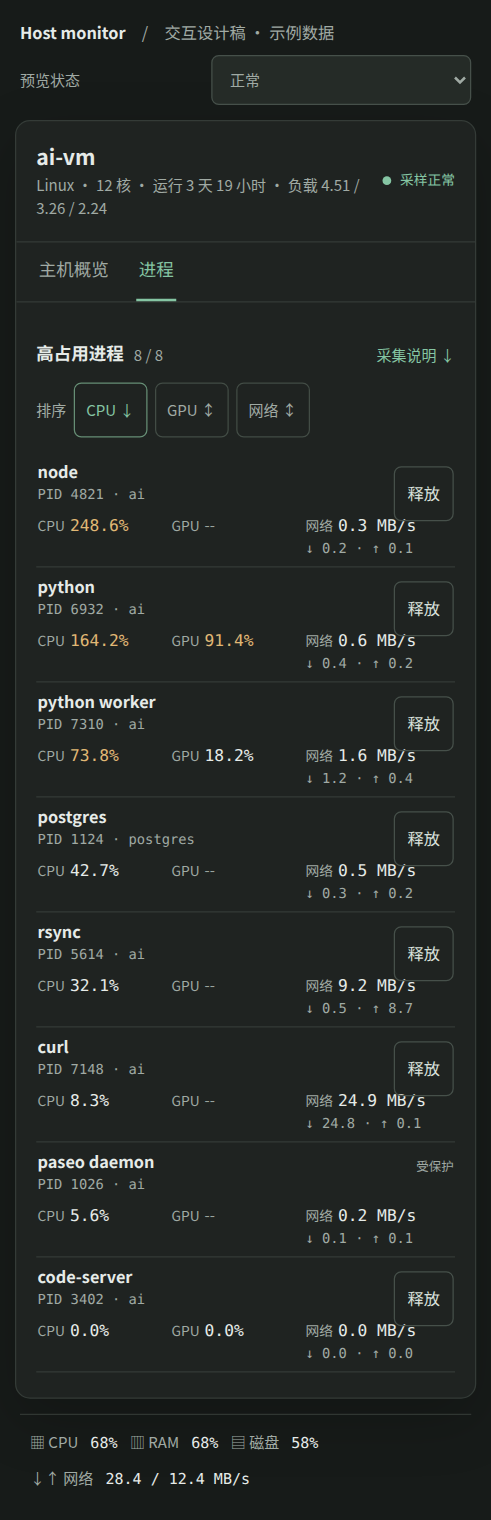
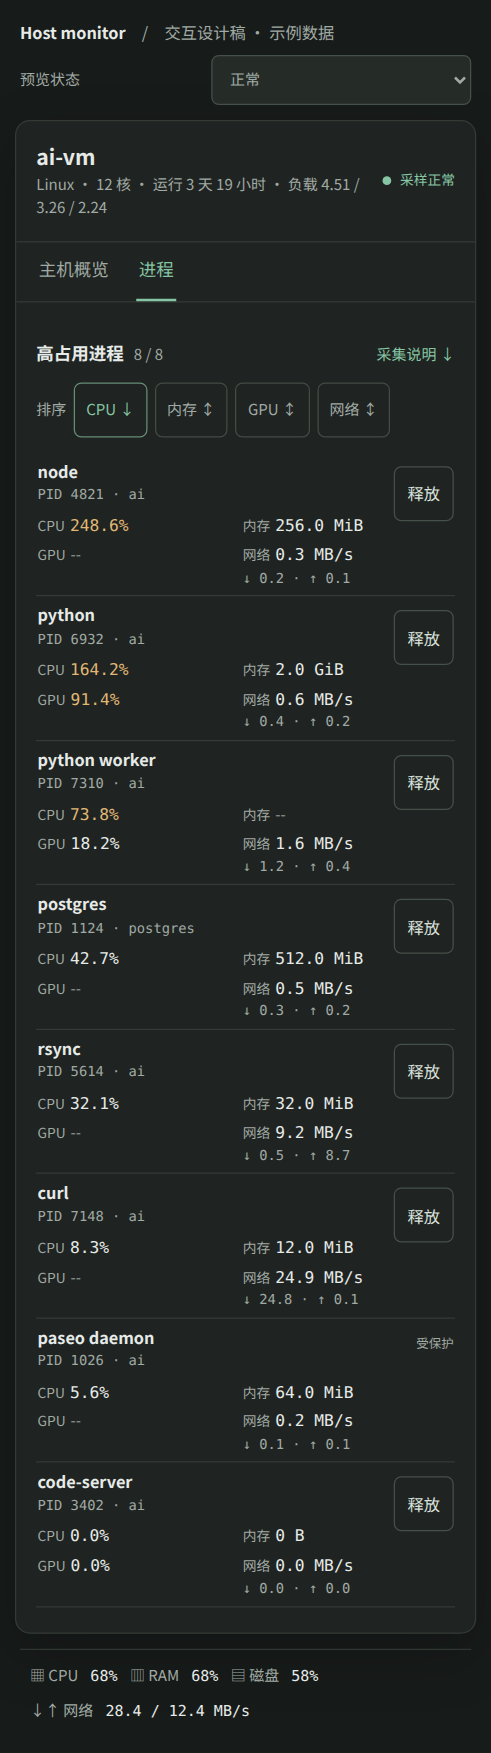
feat: 显示进程内存并精简资源表格

diff --git a/designs/host-monitor/index.html b/designs/host-monitor/index.html
@@ -240,19 +240,22 @@ select{
   text-align:left
 }
 .table th:first-child{
-  width:32%
+  width:27%
 }
 .table th:nth-child(2){
-  width:14%
+  width:10%
 }
 .table th:nth-child(3){
   width:13%
 }
 .table th:nth-child(4){
-  width:24%
+  width:12%
+}
+.table th:nth-child(5){
+  width:23%
 }
 .table th:last-child{
-  width:17%
+  width:15%
 }
 .sort{
   border:0;
@@ -517,6 +520,7 @@ dialog::backdrop{
   }
   .mobile-sort{
     display:flex;
+    flex-wrap:wrap;
     gap:6px;
     align-items:center;
     margin:0 0 12px;
@@ -558,7 +562,7 @@ dialog::backdrop{
   }
   .table td.resource{
     display:inline-block;
-    width:32%;
+    width:49%;
     vertical-align:top;
     font-size:13px
   }
@@ -599,7 +603,7 @@ dialog::backdrop{
 }
 </style></head><body>
 <div class="preview"><div class="preview-label"><strong>Host monitor</strong>　/　交互设计稿 · 示例数据</div><label class="preview-control">预览状态 <select id="scenario"><option value="normal">正常</option><option value="gpu">GPU 未检测到 / 不支持采集</option><option value="network">网络采集权限不足</option><option value="loading">加载中</option><option value="error">采集失败</option><option value="empty">空列表</option><option value="permission">释放权限不足</option><option value="exited">进程已退出</option><option value="failed">结束失败</option></select></label></div>
-<main class="shell"><header class="host-head"><div class="host-title"><div class="host-icon" aria-hidden="true">▦</div><div><h1>ai-vm</h1><div class="sub">Linux · 12 核 · 运行 3 天 19 小时 · 负载 4.51 / 3.26 / 2.24</div></div></div><div class="status"><span class="dot"></span>采样正常</div></header><div class="tabs" role="tablist" aria-label="主机监控视图"><button role="tab" aria-selected="true" data-tab="overview">主机概览</button><button role="tab" aria-selected="false" data-tab="process">进程</button></div><div class="columns"><section class="overview" id="overview"><h2 class="section-title">主机概览</h2><p class="section-caption">最近 60 秒</p><div id="metrics"></div><div class="disk"><div class="metric-head"><span>▤　磁盘 · 186.4 GB / 320 GB</span><strong class="mono">58%</strong></div><div class="disk-row"><div class="disk-label"><span>/</span><span class="mono">116.4 / 200 GB · 58%</span></div><div class="meter"><i style="width:58%"></i></div></div><div class="disk-row"><div class="disk-label"><span>/data</span><span class="mono">70 / 120 GB · 58%</span></div><div class="meter"><i style="width:58%"></i></div></div></div></section><section class="process mobile-hidden" id="process"><div class="process-heading"><div><h2 class="section-title">高占用进程</h2><span class="count" id="count"></span></div><button class="details-toggle" id="details-toggle" aria-expanded="false" aria-controls="collection-details">采集说明 ↓</button></div><div class="details" id="collection-details" hidden><p>-- 表示数据不可用。CPU 100% 表示占用 1 个核心；网络为可归属的可见 TCP 持续连接上下行总速率，不含 UDP 和短连接。</p><div id="availability" class="availability" aria-live="polite"></div><p id="protection-details"></p></div><div class="mobile-sort" id="mobile-sort"><span>排序</span></div><div id="content"></div><div id="toast" aria-live="polite"></div></section></div></main>
+<main class="shell"><header class="host-head"><div class="host-title"><div class="host-icon" aria-hidden="true">▦</div><div><h1>ai-vm</h1><div class="sub">Linux · 12 核 · 运行 3 天 19 小时 · 负载 4.51 / 3.26 / 2.24</div></div></div><div class="status"><span class="dot"></span>采样正常</div></header><div class="tabs" role="tablist" aria-label="主机监控视图"><button role="tab" aria-selected="true" data-tab="overview">主机概览</button><button role="tab" aria-selected="false" data-tab="process">进程</button></div><div class="columns"><section class="overview" id="overview"><h2 class="section-title">主机概览</h2><p class="section-caption">最近 60 秒</p><div id="metrics"></div><div class="disk"><div class="metric-head"><span>▤　磁盘 · 186.4 GB / 320 GB</span><strong class="mono">58%</strong></div><div class="disk-row"><div class="disk-label"><span>/</span><span class="mono">116.4 / 200 GB · 58%</span></div><div class="meter"><i style="width:58%"></i></div></div><div class="disk-row"><div class="disk-label"><span>/data</span><span class="mono">70 / 120 GB · 58%</span></div><div class="meter"><i style="width:58%"></i></div></div></div></section><section class="process mobile-hidden" id="process"><div class="process-heading"><div><h2 class="section-title">高占用进程</h2><span class="count" id="count"></span></div><button class="details-toggle" id="details-toggle" aria-expanded="false" aria-controls="collection-details">采集说明 ↓</button></div><div class="details" id="collection-details" hidden><p>-- 表示数据不可用。CPU 100% 表示占用 1 个核心；内存为 RSS，可能包含共享页，各进程相加不等于主机已用内存；网络为可归属的可见 TCP 持续连接上下行总速率，不含 UDP 和短连接。</p><div id="availability" class="availability" aria-live="polite"></div><p id="protection-details"></p></div><div class="mobile-sort" id="mobile-sort"><span>排序</span></div><div id="content"></div><div id="toast" aria-live="polite"></div></section></div></main>
 <div class="anchor" aria-label="主机状态摘要"><span>▦ CPU <b class="mono">68%</b><i class="tiny-meter"></i></span><span>▥ RAM <b class="mono">68%</b><i class="tiny-meter"></i></span><span>▤ 磁盘 <b class="mono">58%</b><i class="tiny-meter"></i></span><span>↓↑ 网络 <b class="mono">28.4 / 12.4 MB/s</b></span></div>
 <dialog id="confirm" aria-labelledby="dialog-title"><div class="dialog-body"><h2 id="dialog-title">结束进程并释放资源？</h2><p class="warning">将中断该进程正在执行的任务，未保存的数据可能丢失。</p><div class="detail" id="details"></div><p class="dialog-error" id="dialog-error" role="alert" hidden></p></div><div class="dialog-actions"><button class="cancel" id="cancel" autofocus>取消</button><button class="danger" id="submit">结束进程</button></div></dialog>
 <script>
@@ -612,7 +616,8 @@ const initial=[
 {name:'paseo daemon',pid:1026,user:'ai',cmd:'paseo daemon start',cpu:5.6,gpu:null,down:.1,up:.1,protected:true},
 {name:'code-server',pid:3402,user:'ai',cmd:'code-server --bind-addr 127.0.0.1:8080 /workspace',cpu:0,gpu:0,down:0,up:0},
 {name:'python worker',pid:7310,user:'ai',cmd:'python worker.py --queue inference',cpu:73.8,gpu:18.2,down:1.2,up:.4}];
-let processes=initial.map(p=>({...p})),sortKey='cpu',direction='desc',selected=null,opener=null,pending=false;
+let processes=initial.map((p,i)=>({...p,memory:[268435456,2147483648,12582912,33554432,536870912,67108864,0,null][i]})),sortKey='cpu',direction='desc',selected=null,opener=null,pending=false;
+const sampleMemory=processes.map(p=>p.memory);
 const $=id=>document.getElementById(id),scenario=$('scenario');
 function value(p,key){
   if(key==='gpu'&&scenario.value==='gpu'||key==='network'&&scenario.value==='network')return null;
@@ -645,16 +650,22 @@ function esc(s){
   return String(s).replace(/[&<>"']/g,c=>({'&':'&amp;','<':'&lt;','>':'&gt;','"':'&quot;',"'":'&#39;'}[c]))}
 
 function sortButton(key,label){
-  const unavailable=(key==='gpu'&&scenario.value==='gpu')||(key==='network'&&scenario.value==='network');
+  const unavailable=(key==='memory'&&!processes.some(p=>p.memory!=null))||(key==='gpu'&&scenario.value==='gpu')||(key==='network'&&scenario.value==='network');
   return `<button class="sort ${sortKey===key?'active':''}" data-sort="${key}" ${unavailable?'disabled title="该资源未采集"':''}>${label} ${sortKey===key?(direction==='desc'?'↓':'↑'):'↕'}</button>`}
 
 function format(v,suffix){
   return v==null?'<span class="na">--</span>':`<span class="mono value ${v>=70?'high':''}">${v.toFixed(1)}${suffix}</span>`}
 
+function formatMemory(bytes){
+  if(bytes==null)return '<span class="na">--</span>';
+  let n=bytes,unit=0;const units=['B','KiB','MiB','GiB','TiB'];
+  while(n>=1024&&unit<units.length-1){n/=1024;unit++}
+  return `<span class="mono value">${n.toFixed(unit?1:0)} ${units[unit]}</span>`;
+}
 function render(){
   const state=scenario.value,content=$('content'),mobile=$('mobile-sort');
   $('availability').textContent=state==='gpu'?'GPU 未检测到或不支持进程采集。':state==='network'?'网络进程采集权限不足。':'';
-  mobile.innerHTML='<span>排序</span>'+[['cpu','CPU'],['gpu','GPU'],['network','网络']].map(([k,l])=>sortButton(k,l)).join('');
+  mobile.innerHTML='<span>排序</span>'+[['cpu','CPU'],['memory','内存'],['gpu','GPU'],['network','网络']].map(([k,l])=>sortButton(k,l)).join('');
   $('count').textContent=(state==='empty'?0:processes.length)+' / '+(state==='empty'?0:processes.length);
   $('protection-details').textContent=processes.filter(p=>p.protected).map(p=>`PID ${p.pid} · ${p.name}：守护进程受保护`).join('；');
 if(state==='loading'||state==='error'||state==='empty'){content.innerHTML=state==='loading'?'<div class="message"><strong>正在采集进程数据</strong><span>请稍候</span></div>':state==='error'?'<div class="message"><strong>进程采集失败</strong><span>暂时无法获取进程数据</span><button class="retry" id="retry">重试</button></div>':'<div class="message"><strong>暂无进程数据</strong><span>当前没有可显示的进程</span></div>';
@@ -663,9 +674,9 @@ if(state==='loading'||state==='error'||state==='empty'){content.innerHTML=state=
   return}
 const rows=sorted(processes,sortKey,direction).map(p=>{
   const net=value(p,'network');
-  return `<tr><td><div class="name">${esc(p.name)}</div><div class="identity mono">PID ${p.pid} · ${esc(p.user)}</div></td><td class="resource" data-label="CPU">${format(value(p,'cpu'),'%')}</td><td class="resource" data-label="GPU">${format(value(p,'gpu'),'%')}</td><td class="resource" data-label="网络">${format(net,' MB/s')}${net==null?'':`<div class="network-detail mono">↓ ${p.down.toFixed(1)} · ↑ ${p.up.toFixed(1)}</div>`}</td><td class="action">${p.protected?'<span class="protected">受保护</span>':`<button class="release" data-pid="${p.pid}">释放</button>`}</td></tr>`}).join('');
+  return `<tr><td><div class="name">${esc(p.name)}</div><div class="identity mono">PID ${p.pid} · ${esc(p.user)}</div></td><td class="resource" data-label="CPU">${format(value(p,'cpu'),'%')}</td><td class="resource" data-label="内存">${formatMemory(p.memory)}</td><td class="resource" data-label="GPU">${format(value(p,'gpu'),'%')}</td><td class="resource" data-label="网络">${format(net,' MB/s')}${net==null?'':`<div class="network-detail mono">↓ ${p.down.toFixed(1)} · ↑ ${p.up.toFixed(1)}</div>`}</td><td class="action">${p.protected?'<span class="protected">受保护</span>':`<button class="release" data-pid="${p.pid}">释放</button>`}</td></tr>`}).join('');
   const aria=k=>sortKey===k?(direction==='desc'?'descending':'ascending'):'none';
-  content.innerHTML=`<table class="table"><thead><tr><th scope="col">进程</th><th scope="col" aria-sort="${aria('cpu')}">${sortButton('cpu','CPU')}</th><th scope="col" aria-sort="${aria('gpu')}">${sortButton('gpu','GPU')}</th><th scope="col" aria-sort="${aria('network')}">${sortButton('network','网络')}</th><th scope="col">操作</th></tr></thead><tbody>${rows}</tbody></table>`}
+  content.innerHTML=`<table class="table"><thead><tr><th scope="col">进程</th><th scope="col" aria-sort="${aria('cpu')}">${sortButton('cpu','CPU')}</th><th scope="col" aria-sort="${aria('memory')}">${sortButton('memory','内存')}</th><th scope="col" aria-sort="${aria('gpu')}">${sortButton('gpu','GPU')}</th><th scope="col" aria-sort="${aria('network')}">${sortButton('network','网络')}</th><th scope="col">操作</th></tr></thead><tbody>${rows}</tbody></table>`}
 $('details-toggle').onclick=()=>{const details=$('collection-details');details.hidden=!details.hidden;$('details-toggle').setAttribute('aria-expanded',String(!details.hidden));$('details-toggle').textContent=`采集说明 ${details.hidden?'↓':'↑'}`};
 document.addEventListener('click',e=>{
   const button=e.target.closest('[data-sort]');
@@ -677,13 +688,13 @@ document.addEventListener('click',e=>{
   selected=p;
   opener=release;
   $('dialog-error').hidden=true;
-  $('details').innerHTML=`<div class="detail-row"><span>进程</span><strong>${esc(p.name)} · PID ${p.pid}</strong></div><div class="detail-row"><span>用户</span><span>${esc(p.user)}</span></div><div class="detail-row"><span>命令</span><span class="mono command">${esc(p.cmd)}</span></div><div class="detail-row"><span>资源</span><span>CPU ${p.cpu==null?'--':p.cpu.toFixed(1)+'%'} · GPU ${value(p,'gpu')==null?'--':p.gpu.toFixed(1)+'%'} · 网络 ${value(p,'network')==null?'--':value(p,'network').toFixed(1)+' MB/s'}</span></div>`;
+  $('details').innerHTML=`<div class="detail-row"><span>进程</span><strong>${esc(p.name)} · PID ${p.pid}</strong></div><div class="detail-row"><span>用户</span><span>${esc(p.user)}</span></div><div class="detail-row"><span>命令</span><span class="mono command">${esc(p.cmd)}</span></div><div class="detail-row"><span>资源</span><span>CPU ${p.cpu==null?'--':p.cpu.toFixed(1)+'%'} · 内存 ${formatMemory(p.memory)} · GPU ${value(p,'gpu')==null?'--':p.gpu.toFixed(1)+'%'} · 网络 ${value(p,'network')==null?'--':value(p,'network').toFixed(1)+' MB/s'}</span></div>`;
   $('confirm').showModal()});
 scenario.addEventListener('change',()=>{
   const focusedSort = document.activeElement.matches('[data-sort]') ? document.activeElement : null;
   const focusedKey = focusedSort?.dataset.sort;
   const focusedRegion = focusedSort && (focusedSort.closest('#mobile-sort') || $('content'));
-  processes=initial.map(p=>({...p}));
+  processes=initial.map((p,i)=>({...p,memory:sampleMemory[i]}));
   if((sortKey==='gpu'&&scenario.value==='gpu')||(sortKey==='network'&&scenario.value==='network')){sortKey='cpu';
   direction='desc'}
   $('toast').innerHTML='';
@@ -732,6 +743,9 @@ window.hostMonitorSelfCheck=()=>{
   const items=[{pid:2,cpu:null},{pid:3,cpu:5},{pid:1,cpu:5},{pid:4,cpu:9}];
   if(sorted(items,'cpu','desc').map(p=>p.pid).join()!=='4,1,3,2')throw new Error('降序或同值排序失败');
   if(sorted(items,'cpu','asc').map(p=>p.pid).join()!=='1,3,4,2')throw new Error('升序或不可用排序失败');
+  const memoryItems=[{pid:4,memory:null},{pid:3,memory:0},{pid:1,memory:0},{pid:2,memory:1024}];
+  if(sorted(memoryItems,'memory','asc').map(p=>p.pid).join()!=='1,3,2,4')throw new Error('内存升序失败');
+  if(sorted(memoryItems,'memory','desc').map(p=>p.pid).join()!=='2,1,3,4')throw new Error('内存降序失败');
   if(canRelease(initial.find(p=>p.protected)))throw new Error('受保护进程可释放');
   return '自检通过'}finally{scenario.value=old}};
 </script></body></html>

diff --git a/plugins/host-monitor/client/processes.tsx b/plugins/host-monitor/client/processes.tsx
@@ -10,12 +10,13 @@ import { networkTotal, orderProcesses, type SortDirection, type SortKey } from "
 import { loadColor } from "./stats";
 
 type FocusTarget = View & { focus?: () => void };
-const keys: SortKey[] = ["cpu", "gpu", "network"];
-const percentage = (value: number | null) => value === null ? "不可用" : `${value.toFixed(1)}%`;
-const rate = (value: number | null) => value === null ? "不可用" : formatRate(value);
+const keys: SortKey[] = ["cpu", "memory", "gpu", "network"];
+const percentage = (value: number | null) => value === null ? "--" : `${value.toFixed(1)}%`;
+const rate = (value: number | null) => value === null ? "--" : formatRate(value);
+const memory = (value: number | null) => value === null ? "--" : formatBytes(value);
 function gpuValue(process: ProcessUsage, mode: GpuMode): string {
-  if (mode === "memory") return process.gpuMemoryBytes === null ? "不可用" : formatBytes(process.gpuMemoryBytes);
-  return mode === "utilization" ? percentage(process.gpuPercent) : "不可用";
+  if (mode === "memory") return process.gpuMemoryBytes === null ? "--" : formatBytes(process.gpuMemoryBytes);
+  return mode === "utilization" ? percentage(process.gpuPercent) : "--";
 }
 
 export function ProcessPanel({ theme, compact }: { theme: PluginTheme; compact: boolean }) {
@@ -28,6 +29,7 @@ export function ProcessPanel({ theme, compact }: { theme: PluginTheme; compact: 
   const [message, setMessage] = useState("");
   const [result, setResult] = useState("");
   const [blocked, setBlocked] = useState(false);
+  const [showDetails, setShowDetails] = useState(false);
   const cancelRef = useRef<FocusTarget>(null);
   const sortRef = useRef<FocusTarget>(null);
   const query = useQuery({
@@ -77,8 +79,8 @@ export function ProcessPanel({ theme, compact }: { theme: PluginTheme; compact: 
   const fg = theme.colors.foreground;
   const muted = theme.colors.foregroundMuted;
   const border = theme.colors.border;
-  const labels: Record<SortKey, string> = { cpu: "CPU", gpu: data?.capabilities.gpu.mode === "memory" ? "GPU显存" : "GPU", network: "网络" };
-  const disabled = (key: SortKey) => key === "cpu" ? !data?.capabilities.cpu.available : key === "gpu" ? data?.capabilities.gpu.mode === "unavailable" : !data?.capabilities.network.available;
+  const labels: Record<SortKey, string> = { cpu: "CPU", memory: "内存", gpu: data?.capabilities.gpu.mode === "memory" ? "GPU显存" : data?.capabilities.gpu.mode === "utilization" ? "GPU利用率" : "GPU", network: "网络" };
+  const disabled = (key: SortKey) => key === "cpu" ? !data?.capabilities.cpu.available : key === "memory" ? !data?.processes.some((process) => process.memoryBytes !== null) : key === "gpu" ? data?.capabilities.gpu.mode === "unavailable" : !data?.capabilities.network.available;
   const activeSort = disabled(sort) ? keys.find((key) => !disabled(key)) ?? "cpu" : sort;
   const activeDirection = activeSort === sort ? direction : "desc";
   const rows = data ? orderProcesses(data.processes, activeSort, activeDirection, data.capabilities.gpu.mode).slice(0, 12) : [];
@@ -87,26 +89,28 @@ export function ProcessPanel({ theme, compact }: { theme: PluginTheme; compact: 
       accessibilityLabel={`${labels[key]}排序${activeSort === key ? activeDirection === "desc" ? "降序" : "升序" : ""}`}
       accessibilityState={{ disabled: disabled(key) || !!selected }} disabled={disabled(key) || !!selected}
       onPress={() => changeSort(key)}
-      style={{ minHeight: compact ? 44 : 40, justifyContent: "center", paddingHorizontal: 6, opacity: disabled(key) ? 0.5 : 1 }}>
+      style={{ minHeight: compact ? 44 : 32, justifyContent: "center", paddingHorizontal: 2, opacity: disabled(key) ? 0.5 : 1 }}>
       <Text style={{ color: activeSort === key ? theme.colors.accent : muted, fontSize: 12 }}>
         {labels[key]} {activeSort === key ? activeDirection === "desc" ? "↓" : "↑" : "↕"}
       </Text>
     </Pressable>
   ));
   return (
-    <View style={{ flex: 1, minWidth: 0, gap: 12 }}>
-      <View style={{ flexDirection: "row", justifyContent: "space-between", gap: 8 }}>
-        <View><Text style={{ color: fg, fontSize: 14, fontWeight: "600" }}>高占用进程</Text>
-          <Text style={{ color: muted, fontSize: 12, marginTop: 3 }}>按资源占用查看当前进程</Text></View>
-        {data ? <Text style={{ color: muted, fontSize: 12 }}>共 {data.processes.length} 个，显示前 {Math.min(data.processes.length, 12)} 个</Text> : null}
+    <View style={{ flex: 1, minWidth: 0 }}>
+      <View style={{ flexDirection: "row", alignItems: "center", justifyContent: "space-between", gap: 8 }}>
+        <View style={{ flexDirection: "row", alignItems: "center", gap: 8 }}><Text style={{ color: fg, fontSize: 14, fontWeight: "600" }}>高占用进程</Text>
+          {data ? <Text style={{ color: muted, fontSize: 12 }}>{Math.min(data.processes.length, 12)} / {data.processes.length}</Text> : null}</View>
+        <Pressable accessibilityRole="button" accessibilityState={{ expanded: showDetails }} onPress={() => setShowDetails(!showDetails)} style={{ minHeight: compact ? 44 : 32, justifyContent: "center" }}><Text style={{ color: theme.colors.accent, fontSize: 12 }}>采集说明 {showDetails ? "↑" : "↓"}</Text></Pressable>
       </View>
-      {data ? <View style={{ gap: 3 }}>
+      {data && showDetails ? <View style={{ gap: 3, paddingVertical: 8 }}>
+        <Text style={{ color: muted, fontSize: 12 }}>-- 表示数据不可用。CPU 100% 表示占用 1 个核心。内存为 RSS，可能包含共享页，各进程相加不等于主机已用内存。网络为可归属的可见 TCP 持续连接上下行总速率，不含 UDP 和短连接。</Text>
         {!data.capabilities.cpu.available ? <Text style={{ color: theme.colors.statusWarning, fontSize: 12 }}>CPU：{data.capabilities.cpu.reason ?? "不可用"}</Text> : null}
         {data.capabilities.gpu.reason ? <Text style={{ color: theme.colors.statusWarning, fontSize: 12 }}>GPU：{data.capabilities.gpu.reason}</Text> : null}
         {data.capabilities.gpu.mode === "unavailable" && !data.capabilities.gpu.reason ? <Text style={{ color: theme.colors.statusWarning, fontSize: 12 }}>GPU 进程采集不可用</Text> : null}
         {data.capabilities.network.reason ? <Text style={{ color: theme.colors.statusWarning, fontSize: 12 }}>网络：{data.capabilities.network.reason}</Text> : null}
         {!data.capabilities.network.available && !data.capabilities.network.reason ? <Text style={{ color: theme.colors.statusWarning, fontSize: 12 }}>网络进程采集不可用</Text> : null}
         {!data.capabilities.release.available ? <Text style={{ color: theme.colors.statusWarning, fontSize: 12 }}>释放：{data.capabilities.release.reason ?? "不可用"}</Text> : null}
+        {rows.filter((process) => !process.canTerminate && process.protectionReason).map((process) => <Text key={`${process.pid}:${process.startTime}`} style={{ color: muted, fontSize: 12 }}>PID {process.pid} · {process.name}：{process.protectionReason}</Text>)}
       </View> : null}
       {data && query.isError ? <Text style={{ color: theme.colors.statusWarning, fontSize: 12 }}>进程刷新失败，显示上次采样结果。</Text> : null}
       {!data && query.isPending ? <Text style={{ color: muted }}>正在采集进程数据</Text> : null}
@@ -115,31 +119,28 @@ export function ProcessPanel({ theme, compact }: { theme: PluginTheme; compact: 
         <View style={{ flexDirection: "row", alignItems: "center", borderBottomWidth: 1, borderColor: border }}>
           {!compact ? <Text style={{ flex: 2, color: muted, fontSize: 12 }}>进程</Text> : <Text style={{ color: muted, fontSize: 12 }}>排序</Text>}
           {compact ? sortButtons : keys.map((key, index) => <View key={key} style={{ flex: key === "network" ? 1.6 : 1, alignItems: "flex-end" }}>{sortButtons[index]}</View>)}
-          {!compact ? <Text style={{ width: 82, textAlign: "right", color: muted, fontSize: 12 }}>操作</Text> : null}
+          {!compact ? <Text style={{ width: 62, textAlign: "right", color: muted, fontSize: 12 }}>操作</Text> : null}
         </View>
         {rows.length === 0 ? <Text style={{ color: muted }}>暂无进程数据</Text> : rows.map((process) => {
           const allowed = process.canTerminate && data.capabilities.release.available;
           const reason = process.protectionReason ?? data.capabilities.release.reason ?? "不可结束";
-          const resources = [percentage(process.cpuPercent), gpuValue(process, data.capabilities.gpu.mode), rate(networkTotal(process))];
-          const action = <View style={{ alignItems: "flex-end", maxWidth: compact ? 130 : 82 }}>
+          const resources: Record<SortKey, string> = { cpu: percentage(process.cpuPercent), memory: memory(process.memoryBytes), gpu: gpuValue(process, data.capabilities.gpu.mode), network: rate(networkTotal(process)) };
+          const action = <View style={{ alignItems: "flex-end", width: compact ? 64 : 62 }}>
             <Pressable accessibilityRole="button" accessibilityLabel={`释放 ${process.name}，PID ${process.pid}${allowed ? "" : `，${reason}`}`}
               disabled={!allowed || !!selected} onPress={() => { setFrozen(data); setSelected({ ...process }); setResult(""); }}
-              style={{ minHeight: compact ? 44 : 36, minWidth: 58, alignItems: "center", justifyContent: "center", borderWidth: 1, borderColor: border, borderRadius: 6, opacity: allowed ? 1 : 0.5 }}>
-              <Text style={{ color: fg, fontSize: 12 }}>释放</Text>
+              style={{ minHeight: compact ? 44 : 28, minWidth: 56, alignItems: "center", justifyContent: "center", borderWidth: allowed ? 1 : 0, borderColor: border, borderRadius: 4 }}>
+              <Text style={{ color: allowed ? fg : muted, fontSize: 12 }}>{allowed ? "释放" : process.protectionReason === "非当前用户进程" ? "无权限" : process.protectionReason === "受保护的系统或服务进程" ? "受保护" : "受限"}</Text>
             </Pressable>
-            {!allowed ? <Text style={{ color: muted, fontSize: 10, textAlign: "right" }}>{reason}</Text> : null}
           </View>;
-          const identity = <View style={{ flex: 2, minWidth: 0 }}><Text numberOfLines={1} style={{ color: fg, fontSize: 13, fontWeight: "600" }}>{process.name}</Text><Text numberOfLines={1} style={{ color: muted, fontSize: 11 }}>PID {process.pid} · {process.user}</Text></View>;
-          const cells = resources.map((text, index) => <View key={keys[index]} style={{ flex: index === 2 ? 1.6 : 1, minWidth: 0, alignItems: compact ? "flex-start" : "flex-end" }}>
-            {compact ? <Text style={{ color: muted, fontSize: 11 }}>{labels[keys[index]]}</Text> : null}
-            <Text numberOfLines={1} style={{ color: index === 0 && process.cpuPercent !== null && process.cpuPercent >= 70 ? loadColor(theme, process.cpuPercent) : index === 1 && data.capabilities.gpu.mode === "utilization" && process.gpuPercent !== null && process.gpuPercent >= 70 ? loadColor(theme, process.gpuPercent) : fg, fontSize: 12 }}>{text}</Text>
-            {index === 2 && networkTotal(process) !== null ? <Text style={{ color: muted, fontSize: 10 }}>↓ {rate(process.rxBytesPerSec)} · ↑ {rate(process.txBytesPerSec)}</Text> : null}
+          const identity = <View style={{ flex: 2, minWidth: 0 }}><Text numberOfLines={1} style={{ color: fg, fontSize: 13, fontWeight: "600" }}>{process.name}</Text><Text style={{ color: muted, fontSize: 11 }}>PID {process.pid} · {process.user}</Text></View>;
+          const cells = keys.map((key) => <View key={key} style={{ flex: compact ? undefined : key === "network" ? 1.6 : 1, width: compact ? "50%" : undefined, minWidth: 0, alignItems: compact ? "flex-start" : "flex-end" }}>
+            <Text numberOfLines={1} style={{ color: key === "cpu" && process.cpuPercent !== null && process.cpuPercent >= 70 ? loadColor(theme, process.cpuPercent) : key === "gpu" && data.capabilities.gpu.mode === "utilization" && process.gpuPercent !== null && process.gpuPercent >= 70 ? loadColor(theme, process.gpuPercent) : fg, fontSize: 12, fontVariant: ["tabular-nums"] }}>{compact ? `${labels[key]} ` : ""}{resources[key]}</Text>
+            {key === "network" && networkTotal(process) !== null ? <Text style={{ color: muted, fontSize: 10, fontVariant: ["tabular-nums"], textAlign: compact ? "left" : "right" }}>↓ {rate(process.rxBytesPerSec)} · ↑ {rate(process.txBytesPerSec)}</Text> : null}
           </View>);
-          return <View key={`${process.pid}:${process.startTime}`} style={{ paddingVertical: 10, borderBottomWidth: 1, borderColor: border, gap: 8 }}>
-            {compact ? <><View style={{ flexDirection: "row", alignItems: "center", gap: 8 }}>{identity}{action}</View><View style={{ flexDirection: "row", gap: 4 }}>{cells}</View></> : <View style={{ flexDirection: "row", alignItems: "center", gap: 4 }}>{identity}{cells}{action}</View>}
+          return <View key={`${process.pid}:${process.startTime}`} style={{ minHeight: compact ? 64 : 40, paddingVertical: compact ? 3 : 2, borderBottomWidth: 1, borderColor: border }}>
+            {compact ? <><View style={{ flexDirection: "row", alignItems: "center", gap: 8 }}>{identity}{action}</View><View style={{ flexDirection: "row", flexWrap: "wrap" }}>{cells}</View></> : <View style={{ flexDirection: "row", alignItems: "center" }}>{identity}{cells}{action}</View>}
           </View>;
         })}
-        <Text style={{ color: muted, fontSize: 11 }}>CPU 100% 表示占用 1 个核心。网络为可归属的可见 TCP 持续连接上下行总速率，不含 UDP 和短连接。</Text>
       </> : null}
       {result ? <Text accessibilityLiveRegion="polite" style={{ color: theme.colors.accent, fontSize: 12 }}>{result}</Text> : null}
       <Modal title="结束进程并释放资源？" open={selected !== null} onOpenChange={(open) => { if (!open) close(); }}>
@@ -149,7 +150,7 @@ export function ProcessPanel({ theme, compact }: { theme: PluginTheme; compact: 
             <Text style={{ color: fg }}>进程：{selected.name} · PID {selected.pid}</Text>
             <Text style={{ color: fg }}>用户：{selected.user}</Text>
             <Text selectable style={{ color: fg }}>命令：{selected.command}</Text>
-            <Text style={{ color: fg }}>资源：CPU {percentage(selected.cpuPercent)} · {labels.gpu} {gpuValue(selected, data.capabilities.gpu.mode)} · 网络 {rate(networkTotal(selected))}</Text>
+            <Text style={{ color: fg }}>资源：CPU {percentage(selected.cpuPercent)} · 内存 {memory(selected.memoryBytes)} · {labels.gpu} {gpuValue(selected, data.capabilities.gpu.mode)} · 网络 {rate(networkTotal(selected))}</Text>
           </View> : null}
           {message ? <Text accessibilityLiveRegion="polite" style={{ color: theme.colors.statusDanger }}>{message}</Text> : null}
           <View style={{ flexDirection: "row", justifyContent: "flex-end", gap: 8 }}>

diff --git a/plugins/host-monitor/server/processes.ts b/plugins/host-monitor/server/processes.ts
@@ -7,7 +7,7 @@ const INTERVAL = 2000;
 const TIMEOUT = 1500;
 const NETWORK_REASON = "仅统计可唯一归属的可见 TCP 持续连接（含回环），发送量使用 bytes_sent；不含 UDP 和短连接。";
 
-type Proc = { pid: number; ppid: number; startTime: string; ticks: number; uid: number; name: string; command: string };
+type Proc = { pid: number; ppid: number; startTime: string; ticks: number; uid: number; name: string; command: string; memoryBytes: number | null };
 type Socket = { pid: number; rx: number; tx: number };
 type Gpu = { memory: Map<number, number>; utilization: Map<number, number>; mode: ProcessStats["capabilities"]["gpu"]["mode"]; reason: string | null };
 
@@ -20,6 +20,13 @@ export function parseProcStat(text: string): { pid: number; ppid: number; name: 
   const startTime = fields[18];
   if (!Number.isSafeInteger(ppid) || !Number.isFinite(ticks) || !startTime || !/^\d+$/.test(startTime)) return null;
   return { pid: Number(match[1]), name: match[2]!, ppid, ticks, startTime };
+}
+
+export function parseRssBytes(status: string): number | null {
+  const match = /^VmRSS:[ \t]+(\d+)[ \t]+kB[ \t]*$/m.exec(status);
+  if (!match) return null;
+  const bytes = Number(match[1]) * 1024;
+  return Number.isSafeInteger(bytes) ? bytes : null;
 }
 
 export function cpuPercent(previous: { ticks: number; startTime: string } | undefined, current: { ticks: number; startTime: string }, totalDelta: number, cores: number): number | null {
@@ -43,7 +50,8 @@ export function redactCommand(args: string[]): string {
 function readProc(pid: number): Proc | null {
   try {
     const stat = parseProcStat(readFileSync(`/proc/${pid}/stat`, "utf8"));
-    const uid = /^Uid:\s+(\d+)/m.exec(readFileSync(`/proc/${pid}/status`, "utf8"));
+    const status = readFileSync(`/proc/${pid}/status`, "utf8");
+    const uid = /^Uid:\s+(\d+)/m.exec(status);
     if (!stat || !uid) return null;
     let args: string[] = [];
     try {
@@ -53,7 +61,7 @@ function readProc(pid: number): Proc | null {
         args = buffer.subarray(0, readSync(fd, buffer, 0, buffer.length, null)).toString().split("\0").filter(Boolean);
       } finally { closeSync(fd); }
     } catch { /* Process can exit during sampling. */ }
-    return { ...stat, uid: Number(uid[1]), command: args.length ? redactCommand(args) : stat.name };
+    return { ...stat, uid: Number(uid[1]), command: args.length ? redactCommand(args) : stat.name, memoryBytes: parseRssBytes(status) };
   } catch { return null; }
 }
 
@@ -230,7 +238,7 @@ export function startProcessSampler(): { read(): Promise<ProcessStats>; terminat
       const rate = previous?.startTime === proc.startTime ? rates.get(proc.pid) : undefined;
       const reason = !protectedSet ? "无法确认保护链" : protectedSet.has(proc.pid) ? "受保护的系统或服务进程" : currentUid === undefined || proc.uid !== currentUid ? "非当前用户进程" : !releaseAvailable ? releaseReason : null;
       return { pid: proc.pid, startTime: proc.startTime, name: proc.name, user: proc.uid === user.uid ? user.username : String(proc.uid), command: proc.command,
-        cpuPercent: cpuPercent(previous, proc, previousTotal === null ? 0 : total - previousTotal, cores),
+        cpuPercent: cpuPercent(previous, proc, previousTotal === null ? 0 : total - previousTotal, cores), memoryBytes: proc.memoryBytes,
         gpuPercent: gpu.utilization.get(proc.pid) ?? null, gpuMemoryBytes: gpu.memory.get(proc.pid) ?? null,
         rxBytesPerSec: rate?.rx ?? null, txBytesPerSec: rate?.tx ?? null, canTerminate: reason === null, protectionReason: reason };
     });

diff --git a/plugins/host-monitor/client/process-order.ts b/plugins/host-monitor/client/process-order.ts
@@ -1,6 +1,6 @@
 import type { GpuMode, ProcessUsage } from "../shared/processes";
 
-export type SortKey = "cpu" | "gpu" | "network";
+export type SortKey = "cpu" | "memory" | "gpu" | "network";
 export type SortDirection = "asc" | "desc";
 
 export function networkTotal(process: ProcessUsage): number | null {
@@ -11,6 +11,7 @@ export function networkTotal(process: ProcessUsage): number | null {
 
 function value(process: ProcessUsage, key: SortKey, gpuMode: GpuMode): number | null {
   if (key === "cpu") return process.cpuPercent;
+  if (key === "memory") return process.memoryBytes;
   if (key === "network") return networkTotal(process);
   if (gpuMode === "memory") return process.gpuMemoryBytes;
   return gpuMode === "utilization" ? process.gpuPercent : null;

diff --git a/plugins/host-monitor/shared/processes.ts b/plugins/host-monitor/shared/processes.ts
@@ -8,6 +8,7 @@ const processUsageSchema = z.object({
   user: z.string(),
   command: z.string(),
   cpuPercent: z.number().nullable(),
+  memoryBytes: z.number().int().nonnegative().nullable(),
   gpuPercent: z.number().nullable(),
   gpuMemoryBytes: z.number().nullable(),
   rxBytesPerSec: z.number().nullable(),

diff --git a/plugins/host-monitor/OVERVIEW.md b/plugins/host-monitor/OVERVIEW.md
@@ -1,12 +1,14 @@
 # 功能与限制
 
-侧栏显示 Paseo daemon 所在主机的 CPU、内存、磁盘和网络速率。点击状态条打开完整资源页，可查看约三分钟的历史、各本地磁盘、运行时间和负载，以及按 CPU、GPU 或网络排序的前 12 个进程。宽容器左右排列主机概览和进程，窄容器以页签切换。CPU 的 100% 表示占满一个核心，多核心进程可以超过 100%。
+侧栏显示 Paseo daemon 所在主机的 CPU、内存、磁盘和网络速率。点击状态条打开完整资源页，可查看约三分钟的历史、各本地磁盘、运行时间和负载，以及按 CPU、内存、GPU 或网络排序的前 12 个进程。宽容器左右排列主机概览和进程，窄容器以页签切换。CPU 的 100% 表示占满一个核心，多核心进程可以超过 100%。
 
 主机指标每两秒采样一次，磁盘每三十秒采样一次；历史保存在内存中，插件重载或 daemon 重启后清空。Linux 主机 CPU 来自 `/proc/stat`，内存使用 `MemAvailable`；macOS 内存参考 `vm_stat` 和系统内存压力。主机网络总量排除回环及常见虚拟接口，本地磁盘按设备去重，不包含网络挂载和只读镜像。
 
 ## 进程采样
 
-进程 CPU 采样依赖 Linux `/proc`，按进程 PID 和启动时间比较两次计数；首帧和新进程没有基线时显示不可用。需要 `nvidia-smi` 才能采样 NVIDIA 进程数据：优先显示 SM 利用率；无法取得数字时按显存排序并明确显示显存，多个设备的同一进程数值相加。没有 NVIDIA 工具或驱动不可用时显示不可用，不将显存冒充 GPU 利用率。
+进程表使用紧凑行布局；展开“采集说明”可查看采样限制和受限进程的完整原因。`--` 表示数据缺测。进程内存显示 RSS，可能包含共享页，各进程 RSS 之和不等于主机已用内存。
+
+进程 CPU 采样依赖 Linux `/proc`，按进程 PID 和启动时间比较两次计数；首帧和新进程没有基线时显示 `--`。需要 `nvidia-smi` 才能采样 NVIDIA 进程数据：优先显示 SM 利用率；无法取得数字时按显存排序并明确显示显存，多个设备的同一进程数值相加。没有 NVIDIA 工具或驱动不可用时显示 `--`，不将显存冒充 GPU 利用率。
 
 进程网络需要 `ss`。它只统计可唯一归属的可见 TCP 持续连接，包含回环连接；发送量使用 `bytes_sent`。UDP、无法归属的连接以及两次采样之间结束的短连接不在统计范围内，因此不能与排除回环的主机网络总量直接比较。连接和进程首次出现时没有速率基线。
 

diff --git a/designs/host-monitor/README.md b/designs/host-monitor/README.md
@@ -4,11 +4,11 @@
 
 直接打开 `index.html` 即可预览，无外部依赖。所有数据均为示例，页面不会采样主机、发送请求或操作真实进程；以下内容描述设计稿，而非实时插件。
 
-官方 `openPopover` 宽屏为锚定弹层，compact 模式为底部抽屉。本设计桌面左侧展示主机概览和磁盘分区，右侧展示高占用进程；窄屏通过“主机概览 / 进程”切换，可置于底部抽屉。CPU、GPU、网络列均可切换升降序；网络按下载与上传合计排序，CPU 100% 代表一个核心。不可用数据始终排在最后，同值按 PID 排序。GPU 或网络不可用时，进程区说明原因并禁用对应排序，CPU 仍可排序。预览状态选择器可查看采集和释放异常。
+官方 `openPopover` 宽屏为锚定弹层，compact 模式为底部抽屉。本设计桌面左侧展示主机概览和磁盘分区，右侧展示高占用进程；窄屏通过“主机概览 / 进程”切换，可置于底部抽屉。CPU、内存、GPU、网络列均可切换升降序；网络按下载与上传合计排序，CPU 100% 代表一个核心。不可用数据始终排在最后，同值按 PID 排序。GPU 或网络不可用时，进程区说明原因并禁用对应排序，CPU 仍可排序。预览状态选择器可查看采集和释放异常。
 
-进程表采用紧凑行布局；“采集说明”默认收起，展开后查看缺测说明和保护原因。
+进程表采用紧凑行布局；“采集说明”默认收起，展开后查看缺测说明和保护原因。内存示例为 RSS，可能包含共享页，各进程之和不等于主机已用内存。
 
-“释放”表示结束进程，可能中断任务并丢失未保存数据；示例仅模拟操作。守护进程受保护，不能释放。确认框支持取消、Esc 和失败重试；示例进程已退出时移除该行，提示无需重复结束。浏览器控制台可运行 `hostMonitorSelfCheck()`，检查升降序、不可用值排序与受保护进程；断言失败会抛错。
+“释放”表示结束进程，可能中断任务并丢失未保存数据；示例仅模拟操作。守护进程受保护，不能释放。确认框支持取消、Esc 和失败重试；示例进程已退出时移除该行，提示无需重复结束。浏览器控制台可运行 `hostMonitorSelfCheck()`，检查升降序、内存零值及缺测排序与受保护进程；断言失败会抛错。
 
 实际实现必须校验操作权限和进程身份，避免 PID 重用导致误杀；GPU 信息受驱动及平台能力限制，进程网络归因也依赖平台和权限，不保证所有环境均可采集。
 
